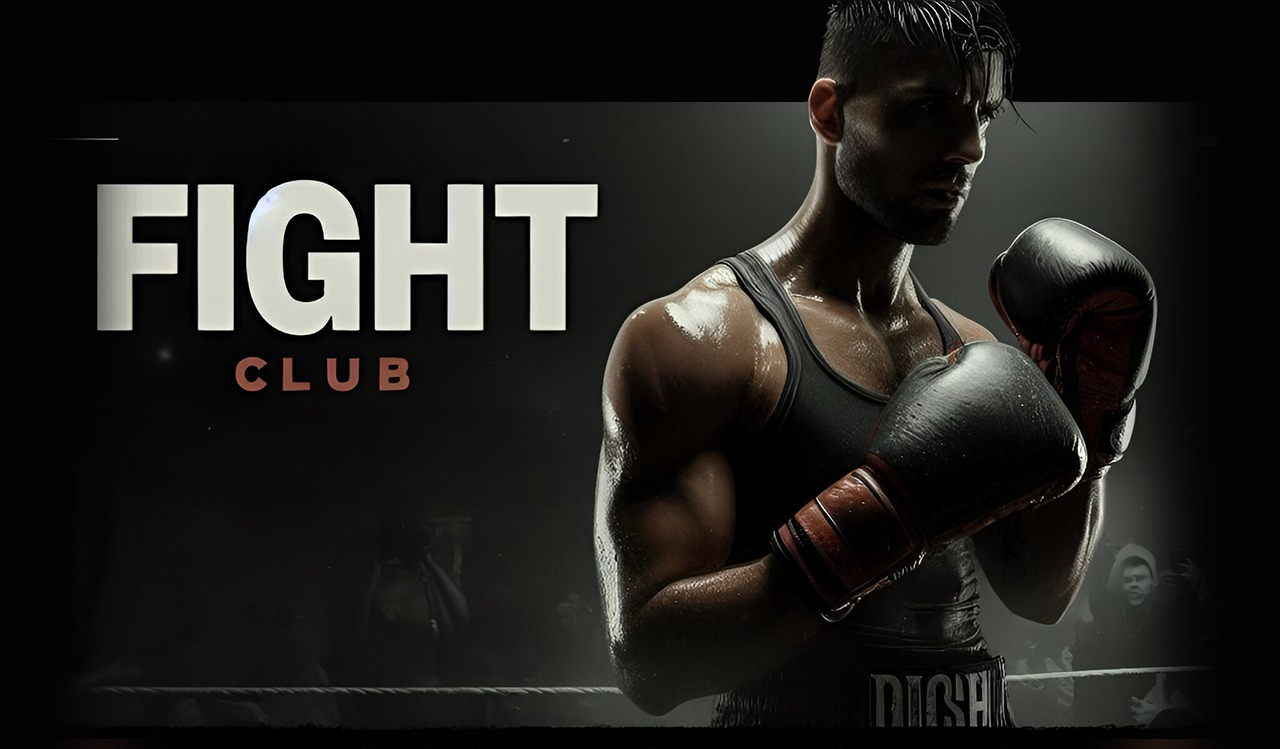
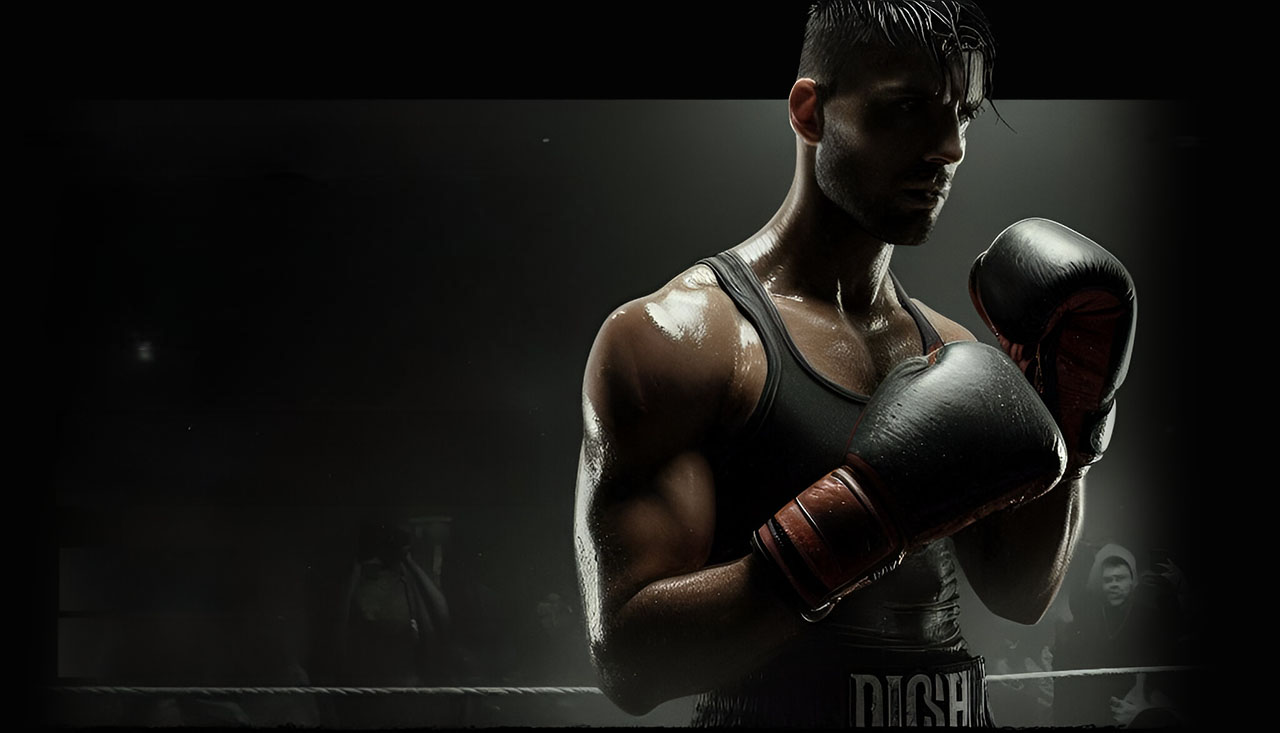
[update] update background

diff --git a/src/components/header/index.tsx b/src/components/header/index.tsx
@@ -23,7 +23,7 @@ const Header = () => {
     <>
       <div className="flex flex-col gap-2 lg:gap-12 pb-8 branding">
         <div className="py-7 flex px-1 lg:px-2 xl:px-4">
-          <div className="flex flex-row flex-1 justify-between items-center uppercase">
+          <div className="flex flex-row flex-1 justify-between items-center uppercase bg-[#030303]/60">
             <Logo />
             {navigation.map((item) => (
               <a
@@ -44,7 +44,7 @@ const Header = () => {
                 <Bars3Icon aria-hidden="true" className="h-6 w-6" />
               </button>
             </div>
-            <button className="hidden lg:block p-2 lg:text-[14px] font-revoluti uppercase rounded-md bg-[#854b3d] text-[#dbdbcf]">
+            <button className="hidden lg:block p-2 ml-8 lg:text-[14px] font-revoluti uppercase rounded-md bg-[#854b3d] text-[#dbdbcf]">
               whitepaper
             </button>
           </div>

diff --git a/src/app/globals.css b/src/app/globals.css
@@ -3,8 +3,8 @@
 @tailwind utilities;
 
 :root {
-  --background: #0a0a0a;
-  --foreground: #ededed;
+  --background: #030303;
+  --foreground: #dbdbcf;
 }
 
 body {
@@ -22,16 +22,10 @@ body {
 }
 
 .branding {
-  background-image: url("/assets/images/bg-fighter-edit.jpg");
+  background-image: url("/assets/images/bg-fighter.jpg");
   background-repeat: no-repeat;
   background-size: cover;
   background-position: left;
-}
-
-.advertisement {
-  background-image: url("/assets/images/bg-add.jpg");
-  background-repeat: no-repeat;
-  background-size: cover;
 }
 
 .brander {

diff --git a/src/components/Logo/Logo.tsx b/src/components/Logo/Logo.tsx
@@ -6,7 +6,7 @@ import { RxSlash } from "react-icons/rx";
 
 const Logo = () => {
   return (
-    <div className="flex flex-row items-center">
+    <div className="pr-8 flex flex-row items-center">
       <Link
         href={"/"}
         className="font-revoluti text-[#dbdbcf] text-lg md::text-2xl xl:text-[24px] tracking-tighter"
